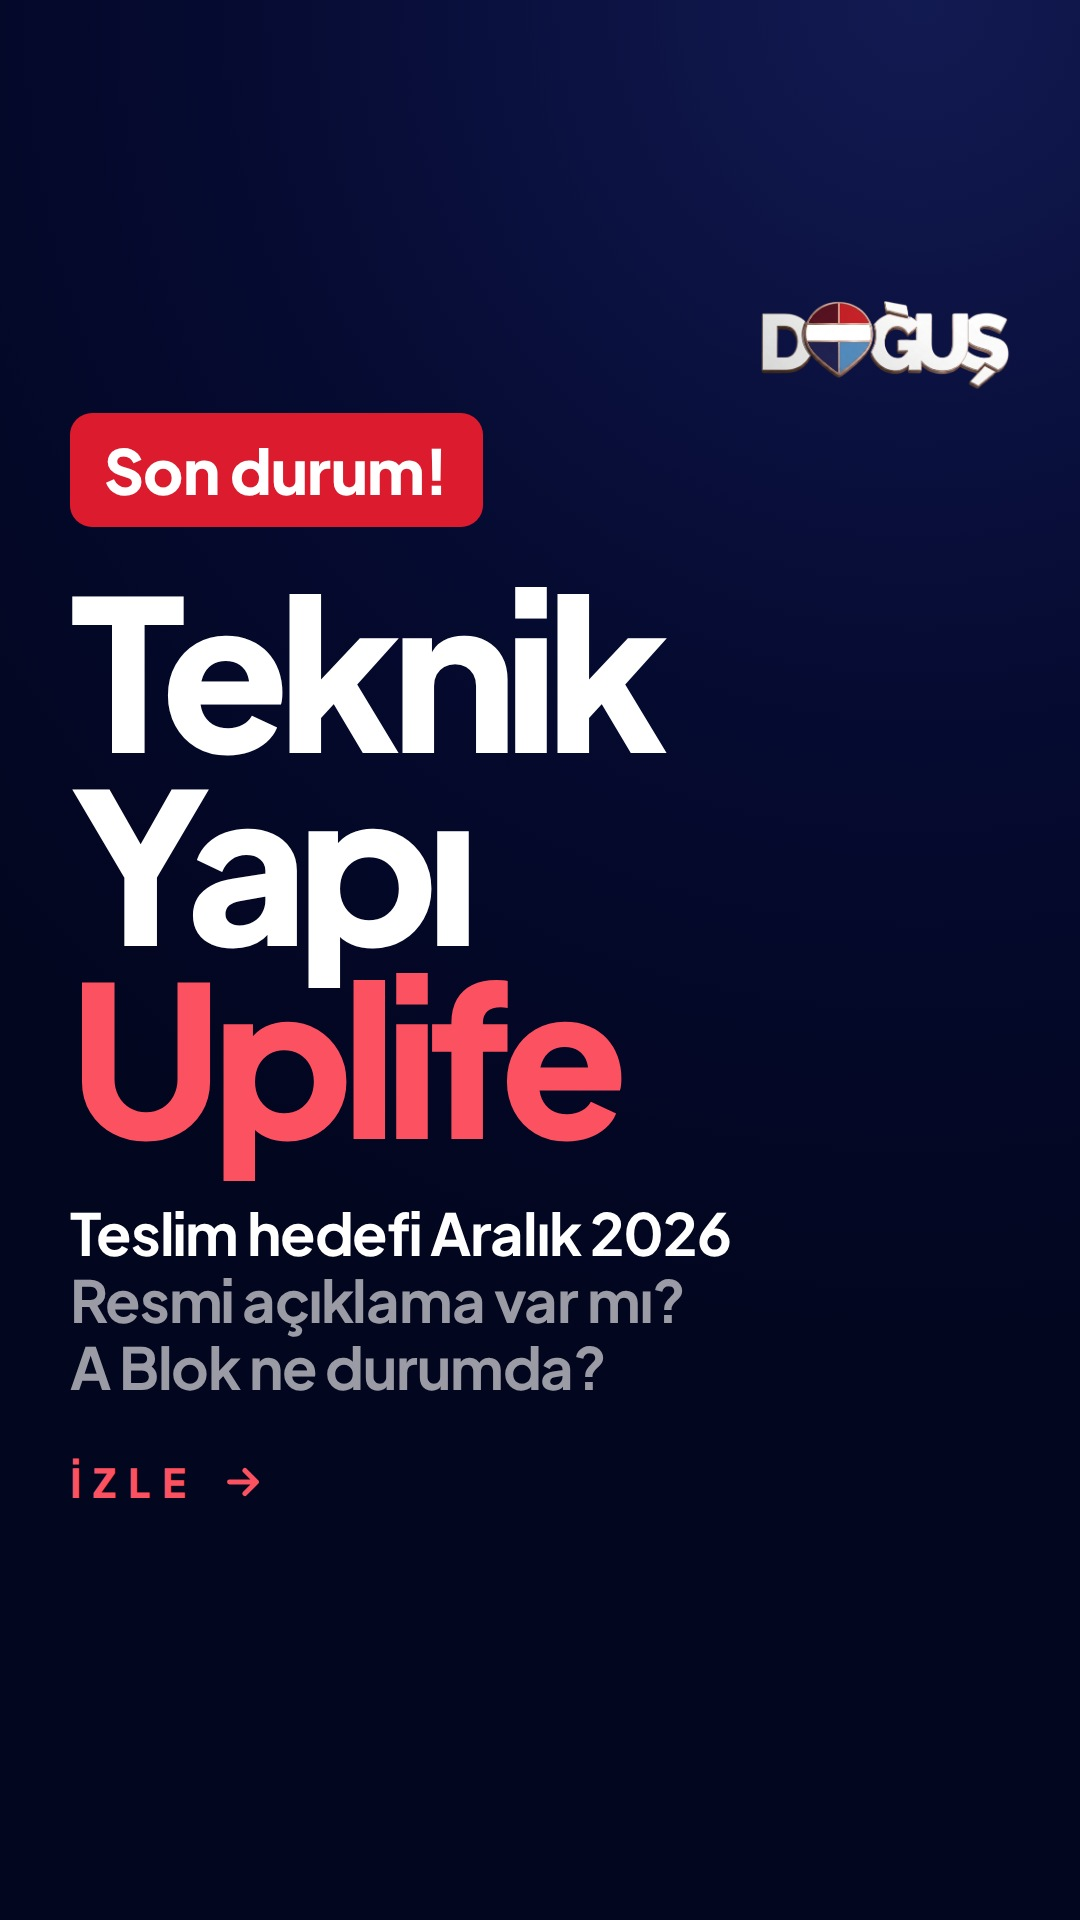
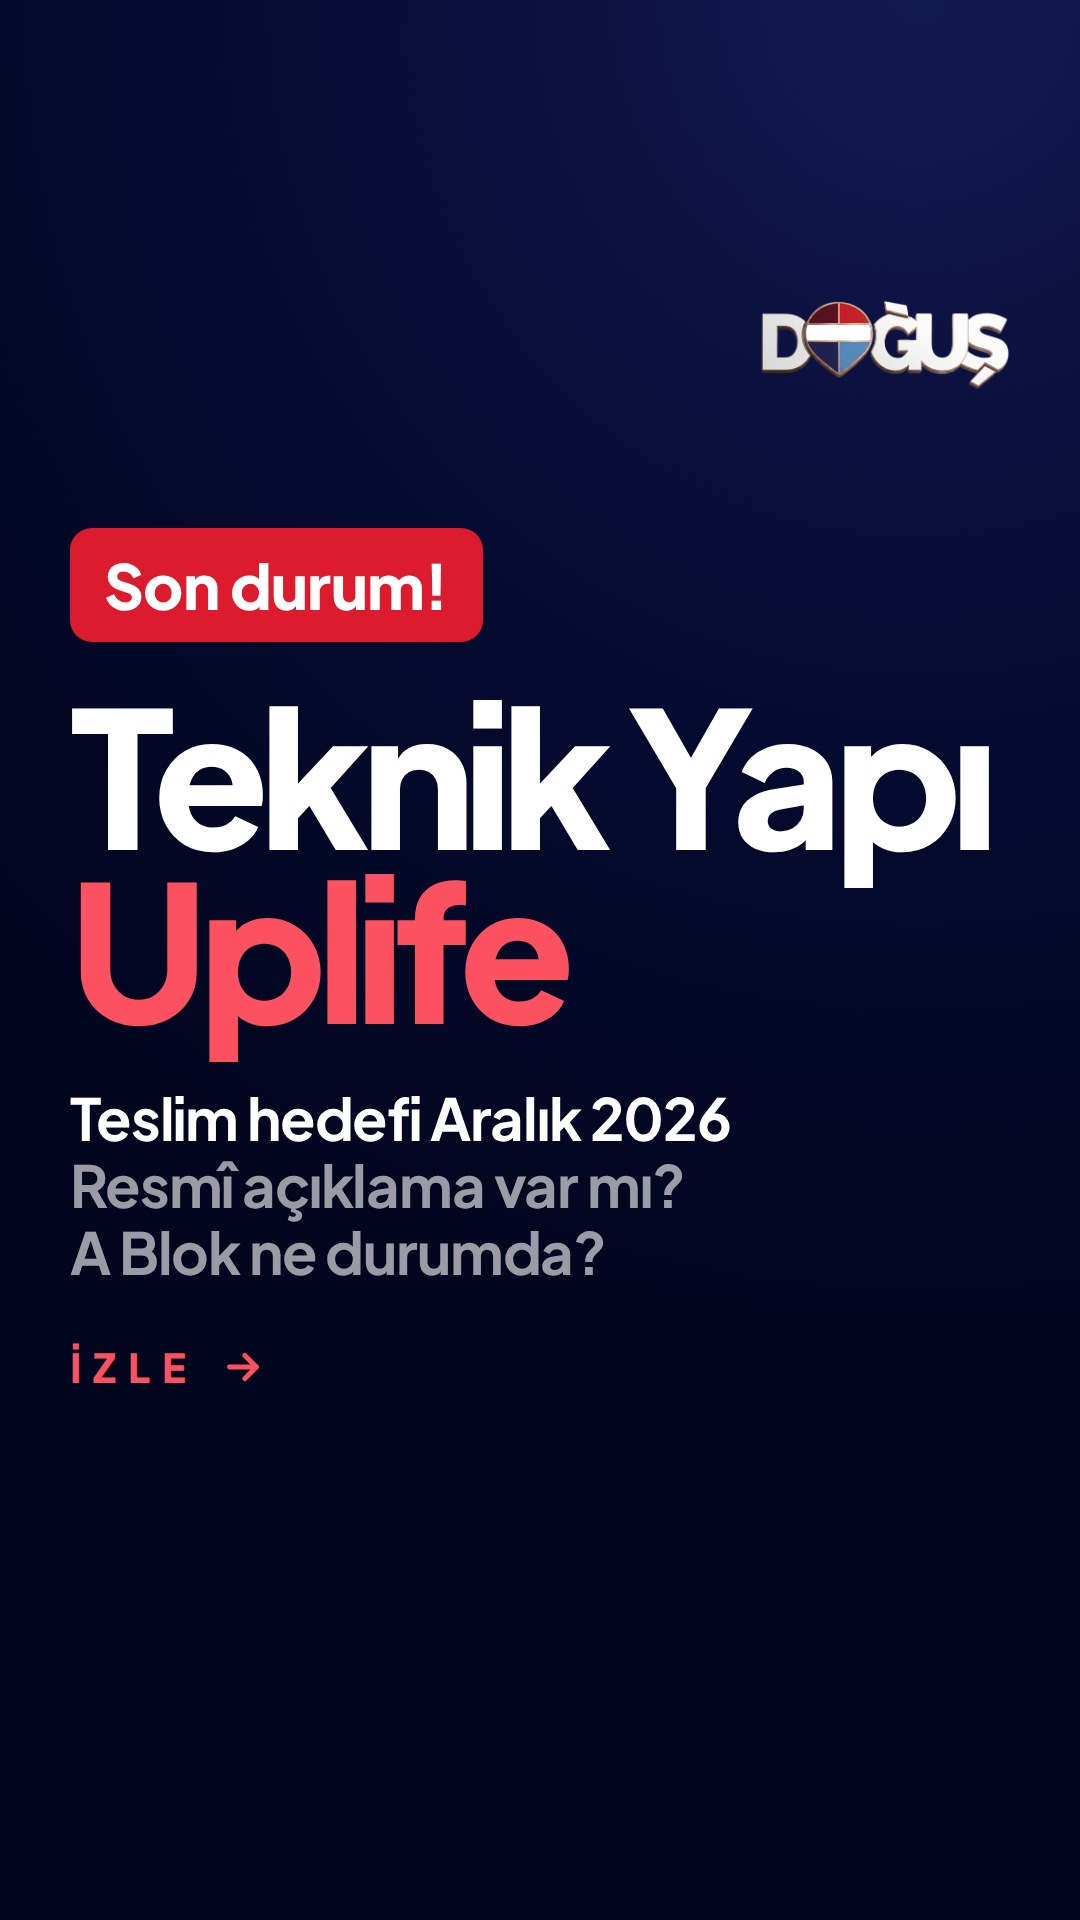
Uplife kapagi Iki Yaka kapagiyla ayni duzene getirildi
Claude-Session: https://claude.ai/code/session_01WRjv6iEbjtXjTmoaDMzP1n

Changed region(s): [[0.0611, 0.1875, 0.9167, 0.7812], [0.2139, 0.75, 0.2444, 0.7812]]

diff --git a/uplife/kapak.html b/uplife/kapak.html
@@ -15,7 +15,7 @@ body{background:#000}
 .logo{position:absolute;right:70px;top:70px;width:250px}
 .reel .logo{top:300px}
 .tag{align-self:flex-start;background:#DC1C2E;border-radius:22px;padding:18px 34px;font-weight:800;font-size:62px;letter-spacing:-.01em}
-h1{font-size:210px;font-weight:800;line-height:.92;letter-spacing:-.05em;margin-top:44px}
+h1{font-size:190px;font-weight:800;line-height:.92;letter-spacing:-.05em;margin-top:44px}
 h1 .hl{color:#FB5160}
 .sub{font-size:58px;font-weight:700;line-height:1.15;margin-top:50px;letter-spacing:-.02em}
 .sub span{opacity:.6}
@@ -32,8 +32,8 @@ h1 .hl{color:#FB5160}
 <div id="c">
   <img class="logo" src="assets/dogus-logo.png" alt="RE/MAX Doğuş">
   <div class="tag">Son durum!</div>
-  <h1>Teknik<br>Yapı<br><span class="hl">Uplife</span></h1>
-  <div class="sub">Teslim hedefi Aralık 2026<br><span>Resmi açıklama var mı?<br>A Blok ne durumda?</span></div>
+  <h1>Teknik Yapı<br><span class="hl">Uplife</span></h1>
+  <div class="sub">Teslim hedefi Aralık 2026<br><span>Resmî açıklama var mı?<br>A Blok ne durumda?</span></div>
   <div class="kay">İZLE <svg width="46" height="46" viewBox="0 0 24 24" fill="none" stroke-width="2.6" stroke-linecap="round" stroke-linejoin="round"><path d="M5 12h14M13 6l6 6-6 6"/></svg></div>
 </div>
 <script>document.body.className=['reel','red'].filter(k=>location.search.includes(k)).join(' ');</script>
